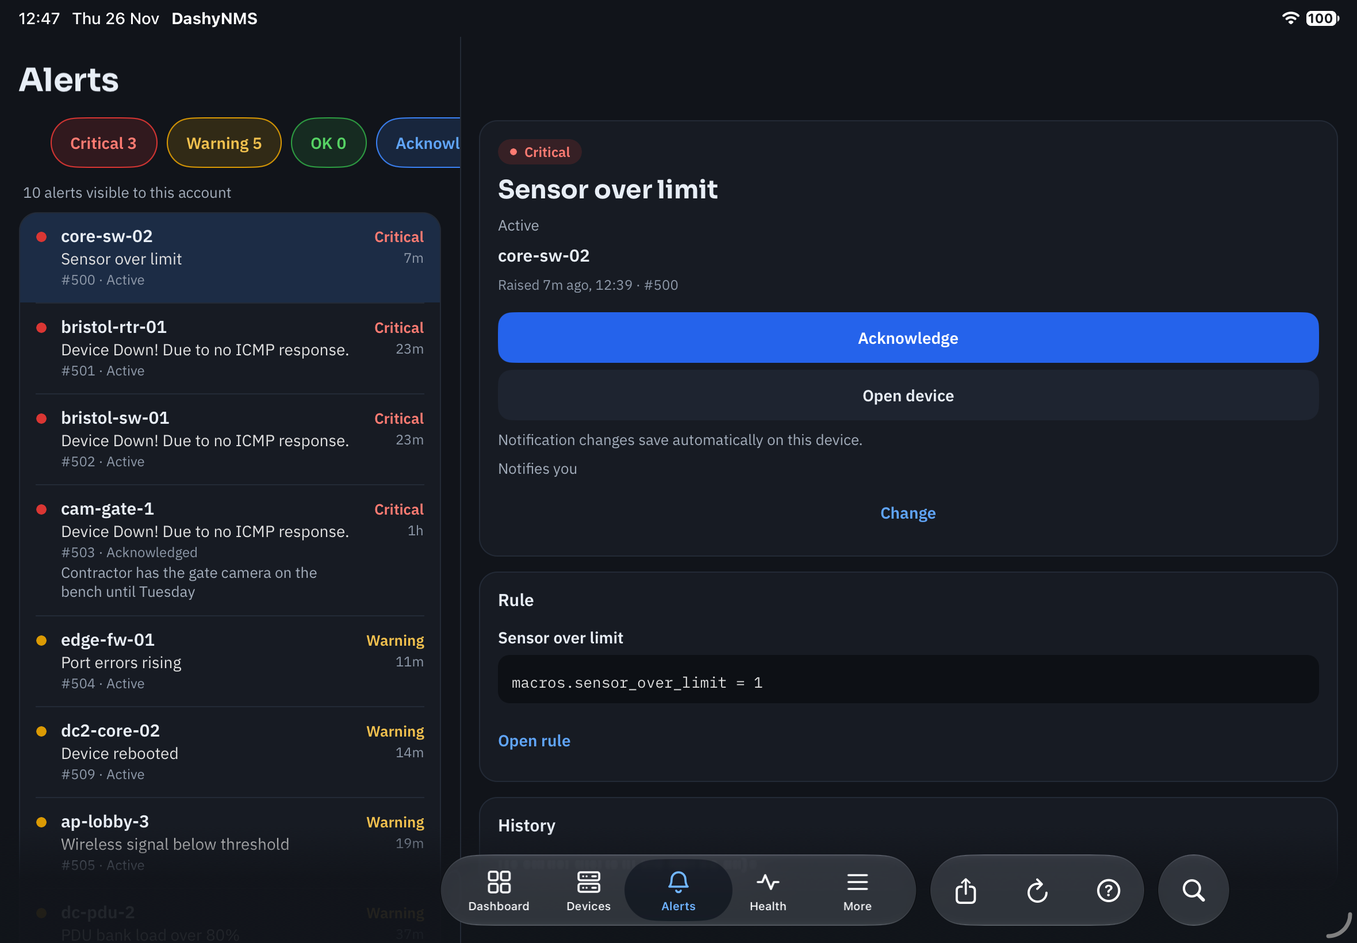
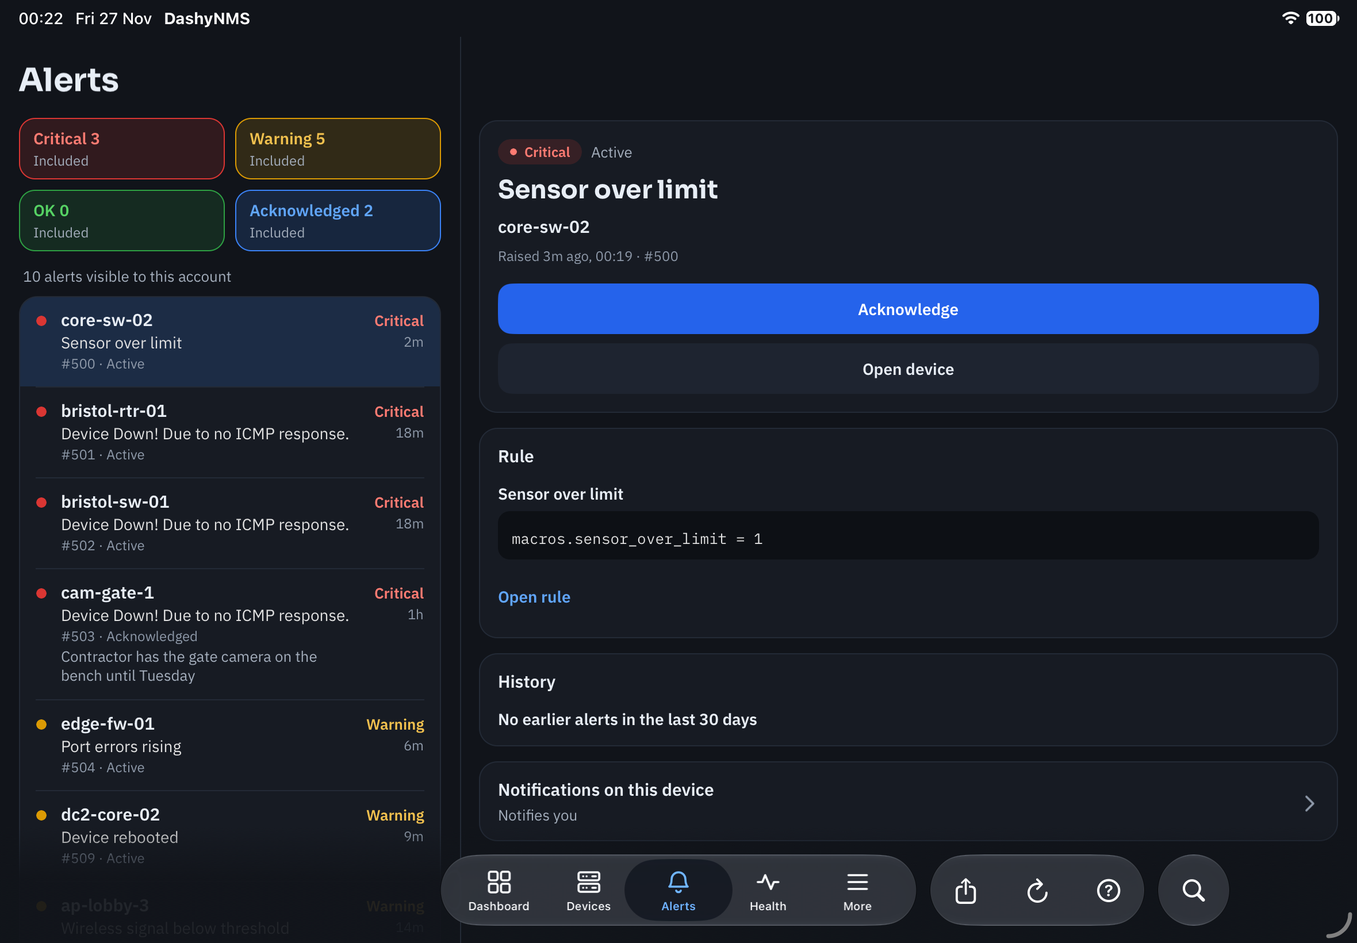
feat(alerts): give local notifications a named action

diff --git a/src/DashyNMS.Mobile/Views/AlertDetailView.xaml b/src/DashyNMS.Mobile/Views/AlertDetailView.xaml
@@ -57,40 +57,37 @@
 
                     <Border Style="{StaticResource Card}" Padding="16" IsVisible="{Binding HasAlert}">
                         <VerticalStackLayout Spacing="8">
-                            <Border Style="{StaticResource Pill}" BackgroundColor="{Binding Alert.Severity, Converter={StaticResource StatusTint}}">
-                                <HorizontalStackLayout Spacing="6">
-                                    <Ellipse WidthRequest="7" HeightRequest="7" VerticalOptions="Center"
-                                             Fill="{Binding Alert.Severity, Converter={StaticResource StatusText}}" />
-                                    <Label Style="{StaticResource PillText}" Text="{Binding Alert.SeverityText}"
-                                           TextColor="{Binding Alert.Severity, Converter={StaticResource StatusText}}" />
-                                </HorizontalStackLayout>
-                            </Border>
-                            <Label Text="{Binding Alert.Rule}" FontSize="22" FontFamily="Display" />
-                            <Label Text="{Binding Alert.StateText}" Style="{StaticResource Caption}" />
-                            <Label Text="{Binding Alert.Device}" FontFamily="BodySemibold" FontSize="15" />
-                            <Label Style="{StaticResource Faint}" Text="{Binding RaisedText}" />
-                            <Label Style="{StaticResource Caption}" Text="{Binding Alert.Note}" FontAttributes="Italic" IsVisible="{Binding Alert.HasNote}" />
-                            <Label Style="{StaticResource Caption}" Text="{Binding GroupStatusText}" IsVisible="{Binding GroupStatusText, Converter={StaticResource IsNotNull}}" />
+                            <Grid ColumnDefinitions="Auto,*" ColumnSpacing="8">
+                                <Border Style="{StaticResource Pill}" BackgroundColor="{Binding Alert.Severity, Converter={StaticResource StatusTint}}">
+                                    <HorizontalStackLayout Spacing="6">
+                                        <Ellipse WidthRequest="7" HeightRequest="7" VerticalOptions="Center"
+                                                 AutomationProperties.IsInAccessibleTree="False"
+                                                 Fill="{Binding Alert.Severity, Converter={StaticResource StatusText}}" />
+                                        <Label Style="{StaticResource PillText}" Text="{Binding Alert.SeverityText}"
+                                               TextColor="{Binding Alert.Severity, Converter={StaticResource StatusText}}" />
+                                    </HorizontalStackLayout>
+                                </Border>
+                                <Label Grid.Column="1" Text="{Binding Alert.StateText}" Style="{StaticResource Caption}"
+                                       VerticalOptions="Center" LineBreakMode="WordWrap" />
+                            </Grid>
+                            <Label Text="{Binding Alert.Rule}" FontSize="22" FontFamily="Display" LineBreakMode="WordWrap" />
+                            <Label Text="{Binding Alert.Device}" FontFamily="BodySemibold" FontSize="15" LineBreakMode="CharacterWrap" />
+                            <Label Style="{StaticResource Faint}" Text="{Binding RaisedText}" LineBreakMode="WordWrap" />
+                            <Label Style="{StaticResource Caption}" Text="{Binding Alert.Note}" FontAttributes="Italic" IsVisible="{Binding Alert.HasNote}" LineBreakMode="WordWrap" />
+                            <Label Style="{StaticResource Caption}" Text="{Binding GroupStatusText}" IsVisible="{Binding GroupStatusText, Converter={StaticResource IsNotNull}}" LineBreakMode="WordWrap" />
 
-                            <VerticalStackLayout Spacing="6" Margin="0,8,0,0">
+                            <VerticalStackLayout Spacing="8" Margin="0,8,0,0">
                                 <Button Text="{Binding AcknowledgeLabel}" Command="{Binding AcknowledgeCommand}" IsVisible="{Binding CanAcknowledge}" />
                                 <Button Text="{Binding UnacknowledgeLabel}" Style="{StaticResource DetailSecondary}" Command="{Binding UnacknowledgeCommand}" IsVisible="{Binding CanUnacknowledge}" />
                                 <Button Text="Open device" Style="{StaticResource SecondaryButton}" Command="{Binding OpenDeviceCommand}" IsVisible="{Binding HasDevice}" />
                             </VerticalStackLayout>
                             <!-- The token isn't allowed to acknowledge (#144): say why the button's gone. -->
-                            <Label Style="{StaticResource Caption}" Text="{Binding ActionResult}" IsVisible="{Binding ActionResult, Converter={StaticResource IsNotNull}}" />
-                            <Label Style="{StaticResource Caption}" Text="{Binding FaultScopeText}" IsVisible="{Binding FaultScopeText, Converter={StaticResource IsNotNull}}" />
+                            <Label Style="{StaticResource Caption}" Text="{Binding ActionResult}" IsVisible="{Binding ActionResult, Converter={StaticResource IsNotNull}}" LineBreakMode="WordWrap" />
+                            <Label Style="{StaticResource Caption}" Text="{Binding FaultScopeText}" IsVisible="{Binding FaultScopeText, Converter={StaticResource IsNotNull}}" LineBreakMode="WordWrap" />
                             <Button Style="{StaticResource DetailLink}" Text="Acknowledge fault" Command="{Binding AcknowledgeFaultCommand}" IsVisible="{Binding CanAcknowledgeFault}" />
                             <Button Style="{StaticResource DetailLink}" Text="Unacknowledge fault" Command="{Binding UnacknowledgeFaultCommand}" IsVisible="{Binding CanUnacknowledgeFault}" />
                             <Label Style="{StaticResource Caption}" Text="{Binding AcknowledgeRefusedText}"
-                                   IsVisible="{Binding AcknowledgeRefusedText, Converter={StaticResource IsNotNull}}" />
-                            <!-- Which alerts notify (#167): Core's choices for this alert's rule, with Undo - notifications only. -->
-                            <VerticalStackLayout Spacing="8" IsVisible="{Binding CanChangeNotifications}">
-                                <Label Text="Notification changes save automatically on this device." Style="{StaticResource Caption}" />
-                                <Label Style="{StaticResource Caption}" Text="{Binding NotificationsText}" VerticalOptions="Center" />
-                                <Button Style="{StaticResource LinkButton}" Text="Change" Command="{Binding ChangeNotificationsCommand}"
-                                        SemanticProperties.Description="Change notifications for this alert rule and device" MinimumHeightRequest="44" />
-                            </VerticalStackLayout>
+                                   IsVisible="{Binding AcknowledgeRefusedText, Converter={StaticResource IsNotNull}}" LineBreakMode="WordWrap" />
                         </VerticalStackLayout>
                     </Border>
 
@@ -160,12 +157,21 @@
                         </BindableLayout.ItemTemplate>
                     </VerticalStackLayout>
 
+                    <!-- Local notification preference (#167, #710): one compact named row below incident evidence. -->
+                    <Border Style="{StaticResource Card}" Padding="0" IsVisible="{Binding CanChangeNotifications}">
+                        <controls:SettingsOverviewRow
+                            ContentPadding="16,0"
+                            Title="Notifications on this device"
+                            Summary="{Binding NotificationsText}"
+                            Command="{Binding ChangeNotificationsCommand}" />
+                    </Border>
+
                 </VerticalStackLayout>
             </Grid>
         </ScrollView>
     </RefreshView>
     <!-- A notification change just made, with Undo (#167). -->
-    <BoxView x:Name="Fade" HeightRequest="20" VerticalOptions="Start" InputTransparent="True">
+    <BoxView x:Name="Fade" HeightRequest="20" VerticalOptions="Start" InputTransparent="True" AutomationProperties.IsInAccessibleTree="False">
         <BoxView.Background>
             <LinearGradientBrush StartPoint="0,0" EndPoint="0,1">
                 <GradientStop Color="{AppThemeBinding Light={StaticResource BackgroundLight}, Dark={StaticResource BackgroundDark}}" Offset="0" />

diff --git a/tests/DashyNMS.Mobile.Shared.Tests/NotifyRulesTests.cs b/tests/DashyNMS.Mobile.Shared.Tests/NotifyRulesTests.cs
@@ -173,24 +173,96 @@ public sealed class NotifyRulesTests
         client.Alerts.GetAsync(1, Arg.Any<CancellationToken>()).Returns(On(1, 7));
         client.Devices.GetAsync("7", Arg.Any<CancellationToken>()).Returns(Fakes.Device(7, "core-sw", sysName: "core-sw"));
         var dialogs = Substitute.For<IDialogService>();
-        dialogs.ChooseAsync(Arg.Any<string>(), Arg.Any<IReadOnlyList<string>>()).Returns("Don't notify me about this rule on this device");
+        dialogs.ChooseAsync(Arg.Any<string>(), Arg.Any<IReadOnlyList<string>>()).Returns("Don't notify on core-sw");
         var vm = new AlertDetailViewModel(client, _settings, dialogs, new RecordingNavigation(), new SelfActionTracker(), _rules);
         await vm.LoadAsync(1);
         Assert.Equal("Notifies you", vm.NotificationsText);
+        Assert.True(vm.CanAcknowledge);
+        Assert.False(vm.CanUnacknowledge);
+        Assert.False(vm.Alert!.IsAcknowledged);
 
         await vm.ChangeNotificationsCommand.ExecuteAsync(null);
 
-        await dialogs.Received(1).ChooseAsync("Notifications for Rule 1 on core-sw", Arg.Any<IReadOnlyList<string>>());
+        await dialogs.Received(1).ChooseAsync(
+            "Notifications for Rule 1 on core-sw\nChanges save immediately on this device.",
+            Arg.Is<IReadOnlyList<string>>(l => l.SequenceEqual(new[]
+            {
+                "Don't notify on core-sw",
+                "Don't notify on any device",
+            })));
         Assert.False(_rules.Allows(On(1, 7)));
         Assert.True(_rules.Allows(On(1, 9)));
         Assert.Equal("Not notified: Rule 1 on core-sw", vm.NotificationsText);
         Assert.Equal("Not notified: Rule 1 on core-sw", vm.Toast.Message);
+        Assert.True(vm.CanAcknowledge);
+        Assert.False(vm.CanUnacknowledge);
+        Assert.False(vm.Alert.IsAcknowledged);
 
         vm.Toast.UndoCommand.Execute(null);
 
         Assert.True(_rules.Allows(On(1, 7)));
         Assert.Equal("Notifies you", vm.NotificationsText);
         Assert.False(vm.Toast.IsShowing);
+        Assert.True(vm.CanAcknowledge);
+        Assert.False(vm.CanUnacknowledge);
+        Assert.False(vm.Alert.IsAcknowledged);
+    }
+
+    [Fact]
+    public void Notification_choices_state_rule_and_device_scope()
+    {
+        var deviceEntry = new NotificationRuleEntry(10, "Sensor over limit", 7, "core-sw-02");
+        var ruleEntry = new NotificationRuleEntry(10, "Sensor over limit");
+
+        Assert.Equal("Don't notify on core-sw-02",
+            AlertDetailViewModel.DescribeNotificationChoice(NotificationRuleAction.LeaveOutOnDevice, "Sensor over limit", "core-sw-02"));
+        Assert.Equal("Don't notify on any device",
+            AlertDetailViewModel.DescribeNotificationChoice(NotificationRuleAction.LeaveOutEverywhere, "Sensor over limit", "core-sw-02"));
+        Assert.Equal("Notify on core-sw-02",
+            AlertDetailViewModel.DescribeNotificationChoice(NotificationRuleAction.OnlyOnDevice, "Sensor over limit", "core-sw-02"));
+        Assert.Equal("Notify on every device",
+            AlertDetailViewModel.DescribeNotificationChoice(NotificationRuleAction.OnlyEverywhere, "Sensor over limit", "core-sw-02"));
+        Assert.Equal("Notify again on core-sw-02",
+            AlertDetailViewModel.DescribeNotificationChoice(NotificationRuleAction.NotifyAgain, "Sensor over limit", "core-sw-02", deviceEntry));
+        Assert.Equal("Notify again on every device",
+            AlertDetailViewModel.DescribeNotificationChoice(NotificationRuleAction.NotifyAgain, "Sensor over limit", "core-sw-02", ruleEntry));
+        Assert.Equal("Stop notifying on core-sw-02",
+            AlertDetailViewModel.DescribeNotificationChoice(NotificationRuleAction.StopOnly, "Sensor over limit", "core-sw-02", deviceEntry));
+        Assert.Equal("Stop notifying on every device",
+            AlertDetailViewModel.DescribeNotificationChoice(NotificationRuleAction.StopOnly, "Sensor over limit", "core-sw-02", ruleEntry));
+    }
+
+    [Fact]
+    public async Task Acknowledged_and_read_only_alerts_change_notifications_without_touching_ack_state()
+    {
+        var acknowledged = Fakes.Alert(1, 7, "critical", acknowledged: true);
+        var client = Fakes.Client(devices: [Fakes.Device(7, "core-sw")]);
+        client.Alerts.GetAsync(1, Arg.Any<CancellationToken>()).Returns(acknowledged);
+        client.Devices.GetAsync("7", Arg.Any<CancellationToken>()).Returns(Fakes.Device(7, "core-sw", sysName: "core-sw"));
+        var permissions = new ApiPermissions();
+        permissions.Learn(HttpMethod.Put, "alerts/1", new LibreNmsApiException("Denied", System.Net.HttpStatusCode.Forbidden));
+        client.Permissions.Returns(permissions);
+
+        var dialogs = Substitute.For<IDialogService>();
+        dialogs.ChooseAsync(Arg.Any<string>(), Arg.Any<IReadOnlyList<string>>()).Returns("Don't notify on any device");
+        var vm = new AlertDetailViewModel(client, _settings, dialogs, new RecordingNavigation(), new SelfActionTracker(), _rules);
+        await vm.LoadAsync(1);
+
+        Assert.True(vm.Alert!.IsAcknowledged);
+        Assert.False(vm.CanAcknowledge);
+        Assert.False(vm.CanUnacknowledge);
+        Assert.NotNull(vm.AcknowledgeRefusedText);
+        Assert.True(vm.CanChangeNotifications);
+
+        await vm.ChangeNotificationsCommand.ExecuteAsync(null);
+        Assert.Equal("Not notified: Rule 1, on every device", vm.NotificationsText);
+        Assert.True(vm.Alert.IsAcknowledged);
+        Assert.False(vm.CanAcknowledge);
+        Assert.False(vm.CanUnacknowledge);
+
+        vm.Toast.UndoCommand.Execute(null);
+        Assert.Equal("Notifies you", vm.NotificationsText);
+        Assert.True(vm.Alert.IsAcknowledged);
     }
 
     [Fact]

diff --git a/src/DashyNMS.Mobile/Controls/SettingsOverviewRow.cs b/src/DashyNMS.Mobile/Controls/SettingsOverviewRow.cs
@@ -14,6 +14,7 @@ public sealed class SettingsOverviewRow : Grid
     public static readonly BindableProperty ShowLogoProperty = BindableProperty.Create(nameof(ShowLogo), typeof(bool), typeof(SettingsOverviewRow), false, propertyChanged: Changed);
     public static readonly BindableProperty ShowChevronProperty = BindableProperty.Create(nameof(ShowChevron), typeof(bool), typeof(SettingsOverviewRow), true, propertyChanged: Changed);
     public static readonly BindableProperty IsCurrentProperty = BindableProperty.Create(nameof(IsCurrent), typeof(bool), typeof(SettingsOverviewRow), false, propertyChanged: Changed);
+    public static readonly BindableProperty ContentPaddingProperty = BindableProperty.Create(nameof(ContentPadding), typeof(Thickness), typeof(SettingsOverviewRow), default(Thickness), propertyChanged: Changed);
     private static readonly Geometry ChevronGeometry = (Geometry)new PathGeometryConverter().ConvertFromInvariantString("M9 6L15 12L9 18")!;
     private readonly Image _logo = new() { Source = "dashynms_logo.png", WidthRequest = 54, HeightRequest = 54, HorizontalOptions = LayoutOptions.Start, VerticalOptions = LayoutOptions.Center, InputTransparent = true, IsVisible = false };
     private readonly Microsoft.Maui.Controls.Shapes.Path _chevron = new()
@@ -29,6 +30,7 @@ public sealed class SettingsOverviewRow : Grid
         VerticalOptions = LayoutOptions.Center,
         InputTransparent = true,
     };
+    private readonly VerticalStackLayout _text = new() { VerticalOptions = LayoutOptions.Center, Padding = new Thickness(0, 14), Spacing = 4, InputTransparent = true };
     private readonly Label _title = new() { FontSize = 15, FontFamily = "BodySemibold", LineBreakMode = LineBreakMode.WordWrap };
     private readonly Label _summary = new() { Style = (Style)Application.Current!.Resources["Caption"], LineBreakMode = LineBreakMode.WordWrap };
     private readonly Button _action = new() { Style = new Style(typeof(Button)), BackgroundColor = Colors.Transparent, BorderWidth = 0, Text = string.Empty, MinimumHeightRequest = 52, Padding = 0 };
@@ -42,13 +44,12 @@ public sealed class SettingsOverviewRow : Grid
         _chevron.SetAppThemeColor(Shape.StrokeProperty,
             (Color)Application.Current!.Resources["TextFaintLight"],
             (Color)Application.Current!.Resources["TextFaintDark"]);
-        var text = new VerticalStackLayout { VerticalOptions = LayoutOptions.Center, Padding = new Thickness(0, 14), Spacing = 4, InputTransparent = true };
-        text.Add(_title);
-        text.Add(_summary);
-        AutomationProperties.SetIsInAccessibleTree(text, false);
-        AutomationProperties.SetExcludedWithChildren(text, true);
-        SetColumn((IView)text, 1);
-        Add(text);
+        _text.Add(_title);
+        _text.Add(_summary);
+        AutomationProperties.SetIsInAccessibleTree(_text, false);
+        AutomationProperties.SetExcludedWithChildren(_text, true);
+        SetColumn((IView)_text, 1);
+        Add(_text);
         AutomationProperties.SetIsInAccessibleTree(_logo, false);
         Add(_logo);
         AutomationProperties.SetIsInAccessibleTree(_chevron, false);
@@ -82,6 +83,8 @@ public sealed class SettingsOverviewRow : Grid
     public bool ShowChevron { get => (bool)GetValue(ShowChevronProperty); set => SetValue(ShowChevronProperty, value); }
     /// <summary>What this row opens is already showing beside the list.</summary>
     public bool IsCurrent { get => (bool)GetValue(IsCurrentProperty); set => SetValue(IsCurrentProperty, value); }
+    /// <summary>Inset applied to the row's content while the native button fills the container edge-to-edge.</summary>
+    public Thickness ContentPadding { get => (Thickness)GetValue(ContentPaddingProperty); set => SetValue(ContentPaddingProperty, value); }
     public string Summary { get => (string)GetValue(SummaryProperty); set => SetValue(SummaryProperty, value); }
     public Color? SummaryTextColor { get => (Color?)GetValue(SummaryTextColorProperty); set => SetValue(SummaryTextColorProperty, value); }
     public ICommand? Command { get => (ICommand?)GetValue(CommandProperty); set => SetValue(CommandProperty, value); }
@@ -95,6 +98,8 @@ public sealed class SettingsOverviewRow : Grid
         _logo.IsVisible = ShowLogo;
         _title.LineBreakMode = ShowLogo ? LineBreakMode.CharacterWrap : LineBreakMode.WordWrap;
         ColumnDefinitions[0].Width = new GridLength(ShowLogo ? 68 : 0);
+        _text.Padding = new Thickness(ContentPadding.Left, 14 + ContentPadding.Top, 0, 14 + ContentPadding.Bottom);
+        _chevron.Margin = new Thickness(12, 0, ContentPadding.Right, 0);
         _chevron.IsVisible = ShowChevron;
         _summary.Text = Summary;
         if (SummaryTextColor is { } colour) _summary.TextColor = colour;

diff --git a/src/DashyNMS.Mobile.Shared/ViewModels/AlertDetailViewModel.cs b/src/DashyNMS.Mobile.Shared/ViewModels/AlertDetailViewModel.cs
@@ -344,10 +344,11 @@ public sealed partial class AlertDetailViewModel : ViewModelBase, IRefreshable
     public UndoToast Toast { get; } = new();
 
     /// <summary>
-    /// Core's choices for this alert's rule on its device, in Core's words -
-    /// the same as desktop's right-click (#167): leave it out, notify again,
-    /// or in "Only…" add it or stop. Only notifications: the alert still
-    /// lists and counts. Undo puts the rules back.
+    /// Core's choices for this alert's rule on its device (#167, #710): leave it
+    /// out, notify again, or in "Only…" add it or stop. Each choice states its
+    /// rule or device scope, and the chooser explains that changes save
+    /// immediately on this device. Only notifications: the alert still lists,
+    /// counts and keeps its acknowledgement state. Undo puts the rules back.
     /// </summary>
     [RelayCommand]
     private async Task ChangeNotificationsAsync()
@@ -364,8 +365,10 @@ public sealed partial class AlertDetailViewModel : ViewModelBase, IRefreshable
             return;
         }
 
-        var labels = choices.Select(c => NotificationRuleChoices.Describe(c)).ToList();
-        var picked = await _dialogs.ChooseAsync($"Notifications for {item.Rule} on {item.Device}", labels);
+        var covering = _rules.Listed.FirstOrDefault(e => e.Covers(alert));
+        var labels = choices.Select(c => DescribeNotificationChoice(c, item.Rule, item.Device, covering)).ToList();
+        var title = $"Notifications for {item.Rule} on {item.Device}\nChanges save immediately on this device.";
+        var picked = await _dialogs.ChooseAsync(title, labels);
         var index = picked is null ? -1 : labels.IndexOf(picked);
         if (index < 0)
         {
@@ -380,6 +383,30 @@ public sealed partial class AlertDetailViewModel : ViewModelBase, IRefreshable
             OnPropertyChanged(nameof(NotificationsText));
         });
     }
+
+    /// <summary>
+    /// Formats a notification choice with its explicit rule or device scope so
+    /// each option stays concise in native action sheets while remaining
+    /// unambiguous beside "Notifications on this device".
+    /// </summary>
+    internal static string DescribeNotificationChoice(
+        NotificationRuleAction action,
+        string ruleName,
+        string deviceName,
+        NotificationRuleEntry? covering = null) => action switch
+    {
+        NotificationRuleAction.LeaveOutOnDevice => $"Don't notify on {deviceName}",
+        NotificationRuleAction.LeaveOutEverywhere => "Don't notify on any device",
+        NotificationRuleAction.OnlyOnDevice => $"Notify on {deviceName}",
+        NotificationRuleAction.OnlyEverywhere => "Notify on every device",
+        NotificationRuleAction.NotifyAgain => covering?.DeviceId is not null
+            ? $"Notify again on {deviceName}"
+            : "Notify again on every device",
+        NotificationRuleAction.StopOnly => covering?.DeviceId is not null
+            ? $"Stop notifying on {deviceName}"
+            : "Stop notifying on every device",
+        _ => NotificationRuleChoices.Describe(action),
+    };
 
     [RelayCommand]
     private Task OpenRuleAsync() => _rule is { } rule

diff --git a/src/DashyNMS.Mobile/Controls/AskIntelligence.cs b/src/DashyNMS.Mobile/Controls/AskIntelligence.cs
@@ -107,15 +107,16 @@ public static class AskIntelligence
             if (originalHint is not null)
             {
 #if IOS
-                // Never set SemanticProperties.Hint on a SwipeView container on iOS:
-                // MAUI marks any container with a semantic hint as IsAccessibilityElement = true,
-                // which turns the entire row into an unnamed opaque cell and hides child labels
-                // and trailing buttons (e.g. Pin) from VoiceOver. Child views already receive
-                // the VoiceOver "Ask Intelligence" custom rotor action via AccessibilityActions.
-                if (view is SwipeView)
+                // Never set SemanticProperties.Hint on a container view (SwipeView,
+                // ContentView, Border, Layout) on iOS: MAUI marks any container with
+                // a semantic hint as IsAccessibilityElement = true, which turns the
+                // entire view into an unnamed opaque element and hides child labels
+                // and buttons from VoiceOver. Child views already receive the
+                // VoiceOver "Ask Intelligence" custom rotor action via AccessibilityActions.
+                if (view is SwipeView or ContentView or Border or Layout)
                 {
-                    if (view.Handler?.PlatformView is UIKit.UIView swipeNative)
-                        swipeNative.IsAccessibilityElement = false;
+                    if (view.Handler?.PlatformView is UIKit.UIView containerNative)
+                        containerNative.IsAccessibilityElement = false;
                 }
                 else
                 {

diff --git a/docs/releases/2.0.0.md b/docs/releases/2.0.0.md
@@ -32,6 +32,7 @@ DashyNMS Mobile 2.0 brings Intelligence, alert groups for LibreNMS 26.10, offlin
 
 ## Fixed
 
+- **Alert detail local notifications.** Local notification preferences move below incident evidence (`Why it fired`, `Rule`, `History`) into a compact **Notifications on this device** row whose chooser states the rule or device scope for each option and notes that changes save immediately on this device (#710).
 - **Status filters on Alerts and Devices.** All four status filters stay visible at rest in a single row, two rows, or a labelled **Status** selector at larger text sizes and short viewports, keeping active status separate from search (#708).
 - **Dashboard Needs attention.** Named filter controls show counts and active state, and empty states distinguish hidden matches (with a card-local **Clear filters** action), scope-limited severities and an empty fleet (#707).
 - **System appearance changes.** Switching between Light and Dark mode while the app is open updates pages, status readings and embedded dashboard and device graphs immediately (#703).

diff --git a/docs/guide/how-to/alerts.md b/docs/guide/how-to/alerts.md
@@ -17,6 +17,7 @@ Tap an alert to open it:
 - **Why it fired** shows the values the rule tests. **Show all fields** adds the rest.
 - The rule's condition, notes and procedure follow.
 - **History** shows how often it's happened before. DashyNMS says when the history is incomplete or couldn't be read.
+- **Notifications on this device** sits below the incident details, shows whether this rule and device currently notify you, and opens choices scoped to the device or rule. Changes save immediately on this device and can be undone from the toast without changing acknowledgement state.
 - **Open device** takes you to the device's page.
 
 ## Acknowledge
